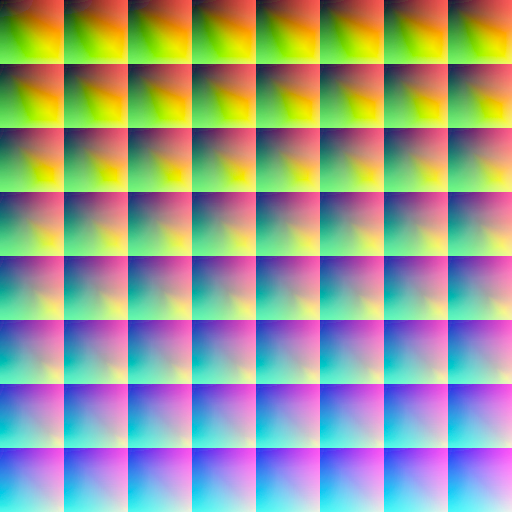
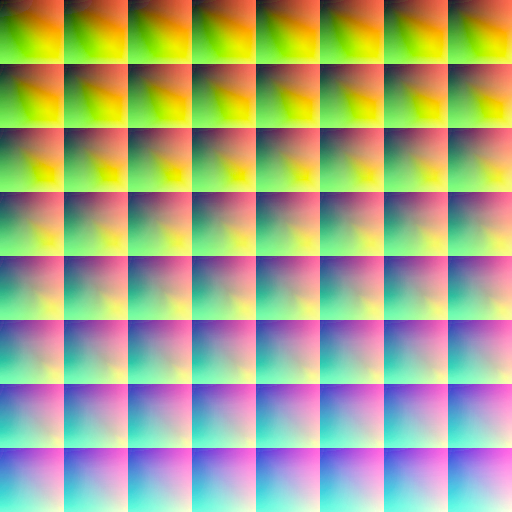
add scan lines

diff --git a/oldschoolvideo.py b/oldschoolvideo.py
@@ -9,8 +9,8 @@ from zzlut import MYLUT
 
 # define some vars
 parser = argparse.ArgumentParser()
-parser.add_argument("-i", "--input", type = str, default = '/Users/zjj/Downloads/照片/C0066.mp4')
-parser.add_argument("-o", "--output", type = str, default = '/Users/zjj/Downloads/test.out5.mov')
+parser.add_argument("-i", "--input", type = str, default = '/Users/zjj/Downloads/照片/c0053.mp4')
+parser.add_argument("-o", "--output", type = str, default = '/Users/zjj/Downloads/test.out6.mov')
 parser.add_argument("-lut", "--lutpath", type = str, default = 'lut/lookup_old_1.png')
 parser.add_argument("-height", "--perferheight", type = int, default = 480)
 parser.add_argument("-fps", "--framepersecond", type = int, default = 30)
@@ -31,6 +31,7 @@ def handleImage(src):
     copy = cv2.GaussianBlur(copy, (3, 3), 0)
     copy = USM(copy)
     copy = lut.imageInLut(copy, 0.5)
+    copy[0::2] = copy[1::2]
     return copy
 '''
     # vx ? by code
@@ -125,7 +126,7 @@ def progressVideo(src, output, encodewith264, framepersecond, perferheight):
 def progressImage(src, output = 'out.jpg'):
     print("Progressing")
     img = cv2.imread(src)
-    img = cv2.resize(img, (480, 360))
+    img = cv2.resize(img, (640, 480))
     vhs = handleImage(img)
     cv2.imshow('output', vhs)
     cv2.waitKey(0)
